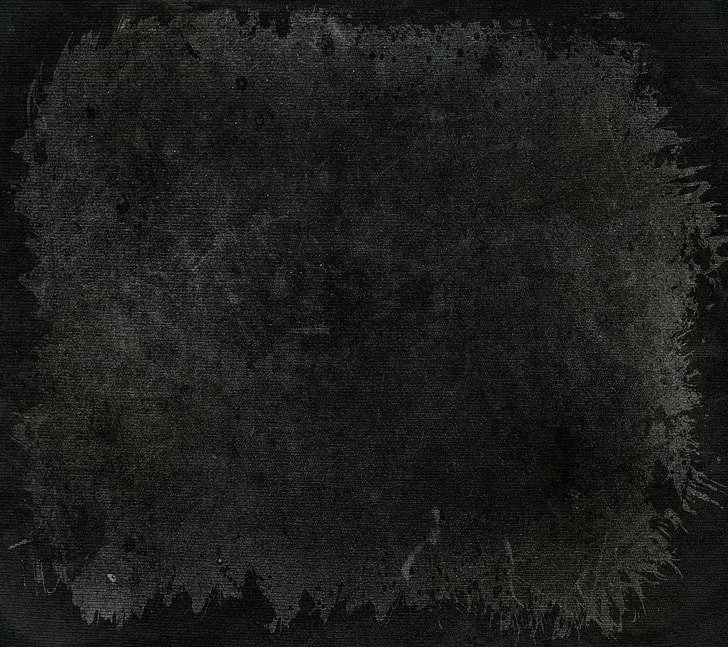
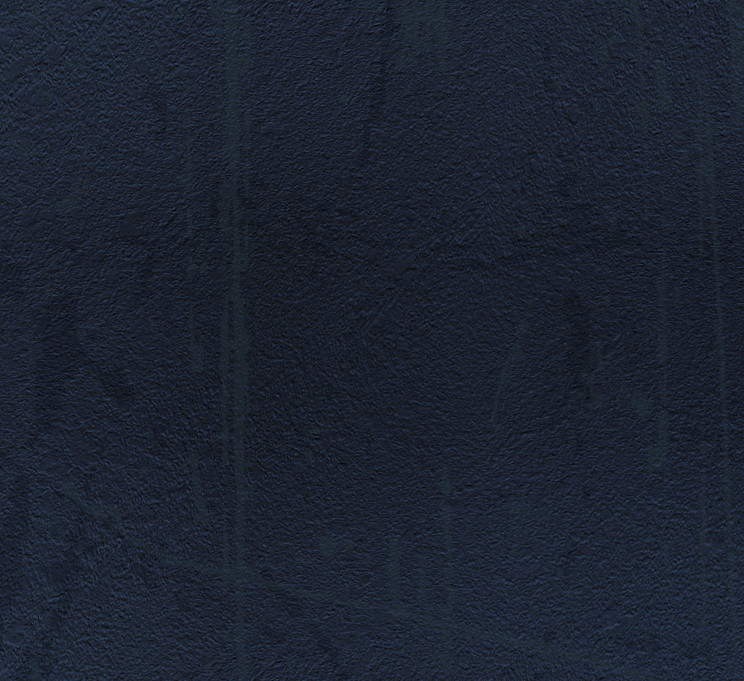
stuff

diff --git a/public/stylemodals.css b/public/stylemodals.css
@@ -16,7 +16,8 @@
 /* Modal Content */
 .modal-content {
 	position: relative;
-	background-color: #222224;
+	background-color: #262c3a;
+	background-image: url(/static/img/modalbg.jpg);
 	margin: auto;
 	padding: 0;
 	border: 1px solid #d5cabd;
@@ -41,16 +42,18 @@
 }
 
 .modal-header {
-	padding: 6px 16px 2px 16px;
-	background-color: #439975;
-	background-image: url(/static/img/oldmetal-ciel.jpg);
+	padding: 6px 16px 6px 16px;
+	margin: 4px;
+	/* background-color: #439975; */
+	background-image: url(/static/img/modaltop-blu.jpg);
+	background-position: center;
 	color: white;
 	border-radius: 10px;
 }
 
 .modal-body {
 	padding: 20px 45px 20px 40px;
-	background-image: url(/static/img/modalbg.jpg);
+	/* background-image: url(/static/img/modalbg.jpg); */
 	color: #d5cabd;
 	font-size: 14px;
 	height: 580px;
@@ -58,9 +61,11 @@
 }
 
 .modal-footer {
-	padding: 6px 16px 2px 16px;
-	background-color: #439975;
-	background-image: url(/static/img/oldmetal-ciel.jpg);
+	padding: 6px 16px 6px 16px;
+	margin: 4px;
+	/* background-color: #439975; */
+	background-image: url(/static/img/modaltop-blu.jpg);
+	background-position: bottom;
 	color: white;
 	min-height: 22px;
 	border-radius: 10px;

diff --git a/public/infos.js b/public/infos.js
@@ -65,8 +65,9 @@ function batInfos(bat,batType,pop) {
     let headPlace = 'unitInfos';
     let bodyPlace = 'unitInfos';
     if (pop) {
-        $('.modal-header').css('background-image','url(/static/img/oldmetal-ciel.jpg)');
-        $('.modal-footer').css('background-image','url(/static/img/oldmetal-ciel.jpg)');
+        $('.modal-header').css('background-image','url(/static/img/modaltop-blu.jpg)');
+        $('.modal-footer').css('background-image','url(/static/img/modaltop-blu.jpg)');
+        $('.modal-content').css('background-image','url(/static/img/modalbg.jpg)');
         headPlace = 'pophead';
         bodyPlace = 'popbody';
         $('#'+headPlace).empty();

diff --git a/public/soute.js b/public/soute.js
@@ -187,6 +187,8 @@ function souteMenu() {
         $('#menu_soute').append('<span class="menuTab jaune">Ces bataillons sont en partie invalides ou stressés/déprimés.<br>Ils guériront avec le temps si ils restent dans la station.</span>');
     } else if (souteTab === 'gar') {
         $('#menu_soute').append('<span class="menuTab jaune">Ces bataillons ont besoin d\'un entretien.<br></span>');
+    } else if (souteTab === 'rez') {
+        $('#menu_soute').append('<span class="menuTab jaune">Pour pouvoir construire des infrastructures pendant la mission, transférez les ressources nécessaire dans le Lander.<br></span>');
     }
 };
 

diff --git a/public/units.js b/public/units.js
@@ -8,8 +8,9 @@ function unitDetail(unitId) {
 };
 
 function unitInfos(batType) {
-    $('.modal-header').css('background-image','url(/static/img/oldmetal-jaune.jpg)');
-    $('.modal-footer').css('background-image','url(/static/img/oldmetal-jaune.jpg)');
+    $('.modal-header').css('background-image','url(/static/img/modaltop.jpg)');
+    $('.modal-footer').css('background-image','url(/static/img/modaltop.jpg)');
+    $('.modal-content').css('background-image','url(/static/img/modalbg-yel.jpg)');
     let headPlace = 'pophead';
     let bodyPlace = 'popbody';
     $('#'+headPlace).empty();
